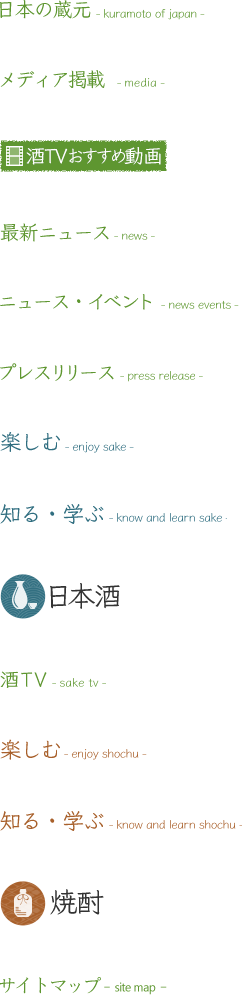
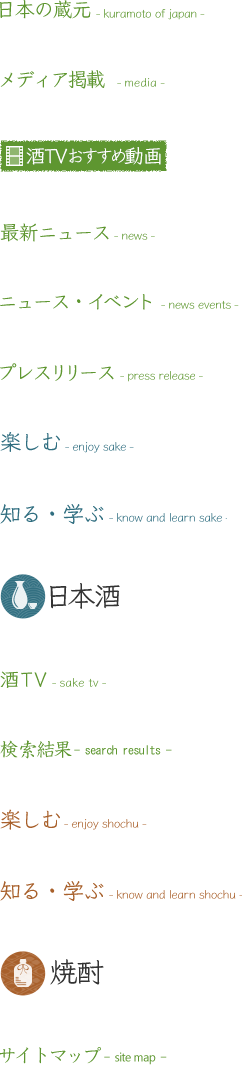
add sitemap image

diff --git a/src/main/webapp/WEB-INF/resources/blog/css/index-en.css b/src/main/webapp/WEB-INF/resources/blog/css/index-en.css
@@ -11,7 +11,8 @@
 .title-kura,
 .title-pressrelease,
 .title-tv,
-.title-sitemap {
+.title-sitemap,
+.title-search {
 	background: url('../img/title-en.png') no-repeat top left;
 }
 
@@ -25,10 +26,11 @@
 .title-sake-enjoy{ background-position: 0 -527px; width: 133px; height: 21px; }
 .title-sake-learn{ background-position: 0 -598px; width: 229px; height: 21px; }
 .title-saketv{ background-position: 0 -669px; width: 126px; height: 20px; }
-.title-shochu{ background-position: 0 -739px; width: 154px; height: 45px; }
-.title-shochu-enjoy{ background-position: 0 -834px; width: 153px; height: 21px; }
-.title-shochu-learn{ background-position: 0 -905px; width: 249px; height: 21px; }
-.title-sitemap{ background-position: 0 -976px; width: 163px; height: 20px; }
+.title-search{ background-position: 0 -739px; width: 208px; height: 20px; }
+.title-shochu{ background-position: 0 -809px; width: 154px; height: 45px; }
+.title-shochu-enjoy{ background-position: 0 -904px; width: 153px; height: 21px; }
+.title-shochu-learn{ background-position: 0 -975px; width: 249px; height: 21px; }
+.title-sitemap{ background-position: 0 -1046px; width: 163px; height: 20px; }
 
 .link-list {
 	background: url('../img/link-list-en.png') no-repeat center center;

diff --git a/src/main/webapp/WEB-INF/resources/blog/css/index-ja.css b/src/main/webapp/WEB-INF/resources/blog/css/index-ja.css
@@ -18,7 +18,8 @@
 .title-kura,
 .title-pressrelease,
 .title-tv,
-.title-sitemap {
+.title-sitemap,
+.title-search{
   background: url('../img/title.png') no-repeat top left;
 }
 
@@ -32,11 +33,11 @@
 .title-sake-learn{ background-position: 0 -503px; width: 227px; height: 21px; }
 .title-sake{ background-position: 0 -574px; width: 120px; height: 45px; }
 .title-saketv{ background-position: 0 -669px; width: 108px; height: 20px; }
-.title-shochu-enjoy{ background-position: 0 -739px; width: 150px; height: 21px; }
-.title-shochu-learn{ background-position: 0 -810px; width: 242px; height: 21px; }
-.title-shochu{ background-position: 0 -881px; width: 104px; height: 45px; }
-.title-sitemap{ background-position: 0 -976px; width: 169px; height: 20px; }
-
+.title-search{ background-position: 0 -739px; width: 173px; height: 20px; }
+.title-shochu-enjoy{ background-position: 0 -809px; width: 150px; height: 21px; }
+.title-shochu-learn{ background-position: 0 -880px; width: 242px; height: 21px; }
+.title-shochu{ background-position: 0 -951px; width: 104px; height: 45px; }
+.title-sitemap{ background-position: 0 -1046px; width: 169px; height: 20px; }
 
 .movie-title {
   text-align: center;
